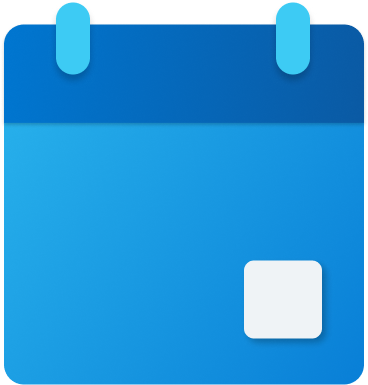
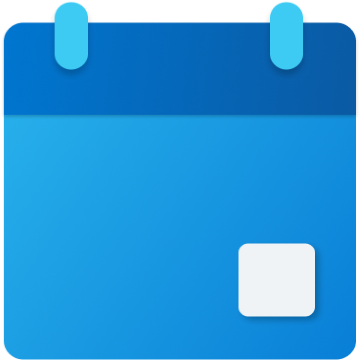
fixed image resolutions

diff --git a/index.html b/index.html
@@ -41,7 +41,7 @@
 </head>
 <body>
     <div class="container">
-        <img src="planner.png" alt="Attendance Planner Tool">
+        <img src="planner-512.png" alt="Attendance Planner Tool">
         <h1>Attendance Planner - Calculate Missed Classes</h1>
         <p>Welcome to the Attendance Planner by Shadow. This tool helps students calculate the number of classes they can miss while maintaining their desired attendance percentage. Simply enter the total number of classes and get instant results!</p>
         <input type="number" id="totalClasses" placeholder="Enter total number of classes">
